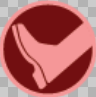
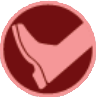
Crop buttons to look better on white screen

Changed region(s): [[0.0, 0.0, 1.0, 0.4639], [0.0, 0.5876, 0.4062, 1.0], [0.625, 0.6186, 1.0, 1.0]]

diff --git a/index.html b/index.html
@@ -10,6 +10,11 @@
     <h1>Testing</h1>
     <div>
         <img src="./img/light-punch.png">
+        <img src="./img/light-kick.png">
+        <img src="./img/medium-punch.png">
+        <img src="./img/medium-kick.png">
+        <img src="./img/heavy-punch.png">
+        <img src="./img/heavy-kick.png">
     </div>
 </body>
 </html>
